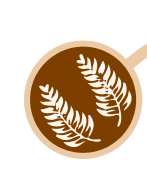
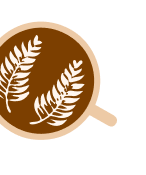
Finished home page

diff --git a/lib/src/ui/home/home.dart b/lib/src/ui/home/home.dart
@@ -28,6 +28,7 @@ class _HomePageState extends State<HomePage> {
     AuthBloc bloc = BlocProvider.of<AuthBloc>(context);
     SizeConfig().init(context);
     return Scaffold(
+      backgroundColor: AppColors.light,
       body: BlocBuilder(
           bloc: bloc,
           builder: (context, state) {
@@ -46,10 +47,10 @@ class _HomePageState extends State<HomePage> {
                         children: <Widget>[
                           Positioned(
                             left: 0,
-                            top: 145,
+                            top: SizeConfig.safeBlockVertical * .18,
                             child: Container(
-                              height: 150,
-                              width: 85,
+                              height: SizeConfig.blockSizeVertical * .2,
+                              width: SizeConfig.safeBlockHorizontal * .21,
                               decoration: BoxDecoration(
                                   image: DecorationImage(
                                       image: AssetImage(
@@ -58,34 +59,58 @@ class _HomePageState extends State<HomePage> {
                           ),
                           Positioned(
                             right: 0,
-                            top: 85,
+                            top: SizeConfig.safeBlockVertical * .07,
                             child: Container(
-                              height: 200,
-                              width: 170,
+                              height: SizeConfig.safeBlockVertical * .2,
+                              width: SizeConfig.safeBlockHorizontal * .32,
                               decoration: BoxDecoration(
                                   image: DecorationImage(
                                       image: AssetImage(
-                                          'assets/images/corner_plants_right.png'))),
-                            ),
-                          ),
-                          Positioned(
-                            left: 0,
-                            bottom: 0,
-                            child: Container(
-                              height: 150,
-                              width: 85,
-                              decoration: BoxDecoration(
-                                  image: DecorationImage(
-                                      image: AssetImage(
-                                          'assets/images/corner_plants_left.png'))),
+                                          'assets/images/latte_right.png'))),
                             ),
                           ),
                           Positioned(
                             right: 0,
-                            bottom: 0,
+                            bottom: SizeConfig.safeBlockVertical * .05,
                             child: Container(
-                              height: 190,
-                              width: 100,
+                              height: SizeConfig.safeBlockVertical * .6,
+                              width: SizeConfig.safeBlockHorizontal * .35,
+                              decoration: BoxDecoration(
+                                  image: DecorationImage(
+                                      image: AssetImage(
+                                          'assets/images/blob_right.png'))),
+                            ),
+                          ),
+                          Positioned(
+                            top: 0,
+                            child: Container(
+                              height: SizeConfig.safeBlockVertical * .6,
+                              width: SizeConfig.safeBlockHorizontal * .9,
+                              decoration: BoxDecoration(
+                                  image: DecorationImage(
+                                      fit: BoxFit.fill,
+                                      image: AssetImage(
+                                          'assets/images/blob_left.png'))),
+                            ),
+                          ),
+                          Positioned(
+                            left: 0,
+                            bottom: SizeConfig.safeBlockVertical * .3,
+                            child: Container(
+                              height: SizeConfig.safeBlockVertical * .2,
+                              width: SizeConfig.safeBlockHorizontal * .32,
+                              decoration: BoxDecoration(
+                                  image: DecorationImage(
+                                      image: AssetImage(
+                                          'assets/images/latte.png'))),
+                            ),
+                          ),
+                          Positioned(
+                            right: 0,
+                            bottom: SizeConfig.blockSizeVertical * .225,
+                            child: Container(
+                              height: SizeConfig.blockSizeVertical * .2,
+                              width: SizeConfig.safeBlockHorizontal * .23,
                               decoration: BoxDecoration(
                                   image: DecorationImage(
                                       image: AssetImage(
@@ -105,37 +130,49 @@ class _HomePageState extends State<HomePage> {
                                 style: TextStyles.kSubtitleTextStyle,
                               ),
                             ]),
-                          )
+                          ),
+                          Positioned(
+                            bottom: SizeConfig.blockSizeVertical * .2,
+                            left: SizeConfig.blockSizeHorizontal * .37,
+                            child: GestureDetector(
+                              onTap: () => Navigator.of(context)
+                                  .pushNamed(kSignUpInitialRoute),
+                              child: Text(
+                                "Sign Up",
+                                style: TextStyles.kSubtitleTextStyle,
+                              ),
+                            ),
+                          ),
+                          Positioned(
+                            bottom: SizeConfig.blockSizeVertical * .18,
+                            left: SizeConfig.blockSizeHorizontal * .245,
+                            child: Container(
+                              margin: EdgeInsets.symmetric(vertical: 8.0),
+                              color: AppColors.caramel,
+                              height: 1.0,
+                              width: SizeConfig.safeBlockHorizontal * .5,
+                            ),
+                          ),
+                          Positioned(
+                            bottom: SizeConfig.blockSizeVertical * .04,
+                            left: SizeConfig.blockSizeHorizontal * .245,
+                            child: Padding(
+                              padding: const EdgeInsets.only(bottom: 80),
+                              child: Row(
+                                mainAxisAlignment: MainAxisAlignment.center,
+                                children: <Widget>[
+                                  Text("Have an account?",
+                                      style: TextStyle(
+                                          fontSize: 20,
+                                          fontFamily: kFontFamilyNormal,
+                                          color: AppColors.dark)),
+                                  _loginButton(context)
+                                ],
+                              ),
+                            ),
+                          ),
                         ],
                       ),
-                    ),
-                  ),
-                  GestureDetector(
-                    onTap: () =>
-                        Navigator.of(context).pushNamed(kSignUpInitialRoute),
-                    child: Text(
-                      "Sign Up",
-                      style: TextStyles.kSubtitleTextStyle,
-                    ),
-                  ),
-                  Container(
-                    margin: EdgeInsets.symmetric(vertical: 8.0),
-                    color: AppColors.caramel,
-                    height: 1.0,
-                    width: SizeConfig.safeBlockHorizontal * .5,
-                  ),
-                  Padding(
-                    padding: const EdgeInsets.only(bottom: 80),
-                    child: Row(
-                      mainAxisAlignment: MainAxisAlignment.center,
-                      children: <Widget>[
-                        Text("Have an account?",
-                            style: TextStyle(
-                                fontSize: 20,
-                                fontFamily: kFontFamilyNormal,
-                                color: AppColors.caramel)),
-                        _loginButton(context)
-                      ],
                     ),
                   ),
                 ],
@@ -156,7 +193,7 @@ class _HomePageState extends State<HomePage> {
           onPressed: () => Navigator.of(context).pushNamed(kSignInRoute),
           child: Text("Log in",
               style: TextStyle(
-                  color: AppColors.dark,
+                  color: AppColors.caramel,
                   fontSize: 20,
                   fontFamily: kFontFamilyNormal,
                   decoration: TextDecoration.underline))),
